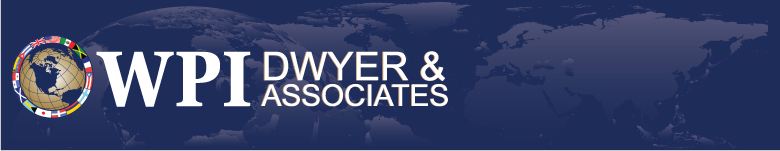
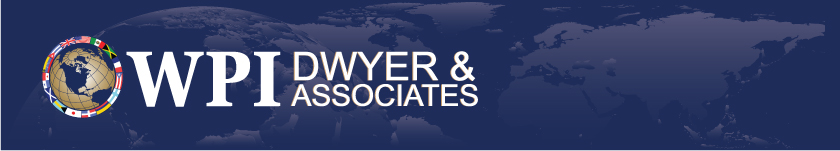
updated header img and title fonts

diff --git a/public/stylesheets/application.css b/public/stylesheets/application.css
@@ -26,8 +26,9 @@ a {
 
 
 .title {
-  font-size: 14px;
+  font-size: 20px;
   font-weight: bold;
+  font-family: georgia;
   color: gold; }
 
 .instructions {
@@ -188,7 +189,7 @@ th {
 
 #agent {
   background-image: url(/images/header.jpg);
-  background-position: -3% 0%;
+  background-position: 50% 0%;
   background-repeat: no-repeat;
   text-align: right;
   color: #ffffff;

diff --git a/public/stylesheets/sass/application.sass b/public/stylesheets/sass/application.sass
@@ -33,8 +33,9 @@ label
 
 .title
   :font
-    :size 14px
+    :size 20px
     :weight bold
+    :family georgia
   :color gold
     
 .instructions
@@ -201,7 +202,7 @@ th
 
 #agent
   :background-image url(/images/header.jpg)
-  :background-position -3% 0%
+  :background-position 50% 0%
   :background-repeat no-repeat
   :text-align right
   :color = !white
